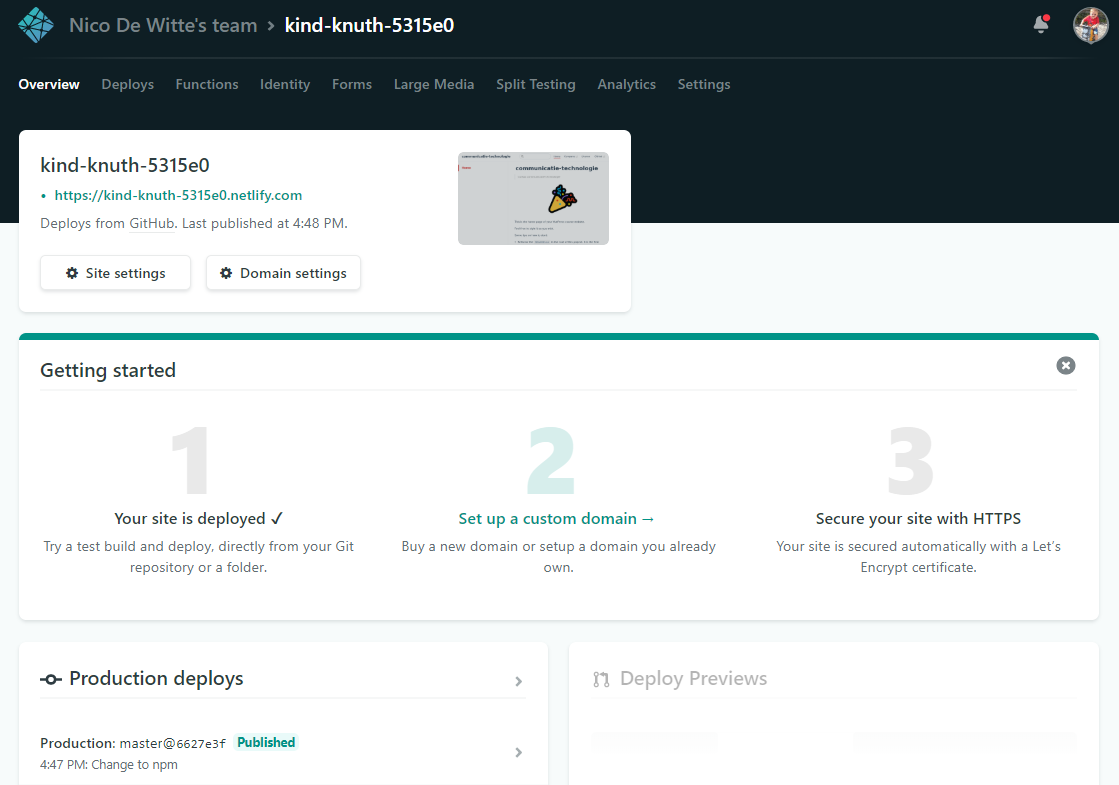
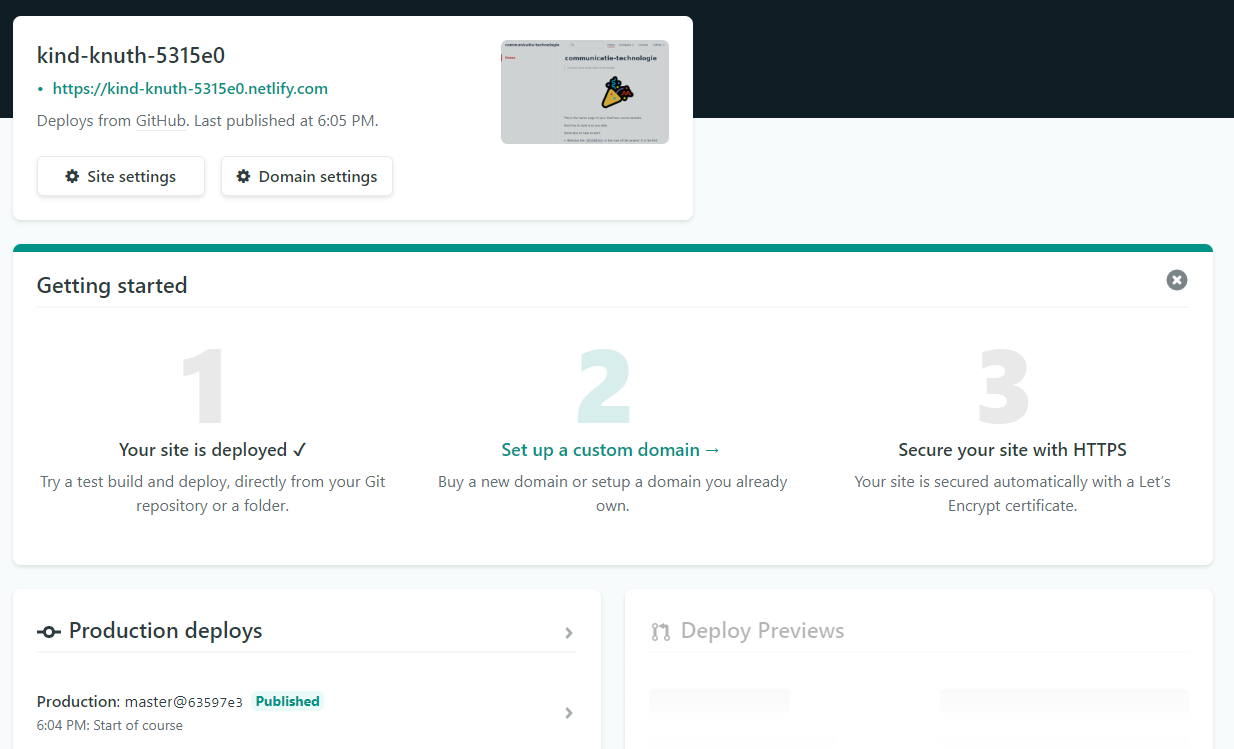
Add info on how to change domain name of netlify site

diff --git a/docs/netlify/README.md b/docs/netlify/README.md
@@ -39,3 +39,21 @@ The basic configuration should not have to be changed. Your VuePress website has
 Hit the `Deploy Site` button and wait for the build to finish.
 
 ![Initial Deploy](./assets/initial_deploy.png)
+
+From now on off, every time you push commits to your master branch on GitHub, your site will automatically build and be deployed on Netlify.
+
+At this moment your website can be accessed via a random generated url shown in the top-left of your overview on Netlify. In our example this is [https://kind-knuth-5315e0.netlify.com](https://kind-knuth-5315e0.netlify.com). Click the link on Netlify to view your fancy new course site.
+
+## Changing the Generated URL
+
+Netlify allows you to change the generated URL in a more user-friendly url of your own choosing. Click `Domain settings` and select the three dots next to the domain name `...` and choose `Edit site name`.
+
+![Changing the Domain Name](./assets/change_domain_name.png)
+
+Enter a more sensible name for your website.
+
+![Choosing a more Sensible Domain Name](./assets/domain_name.png)
+
+You should immediately be able to access your site via the new domain name.
+
+![Final Result](./assets/final_result.png)
